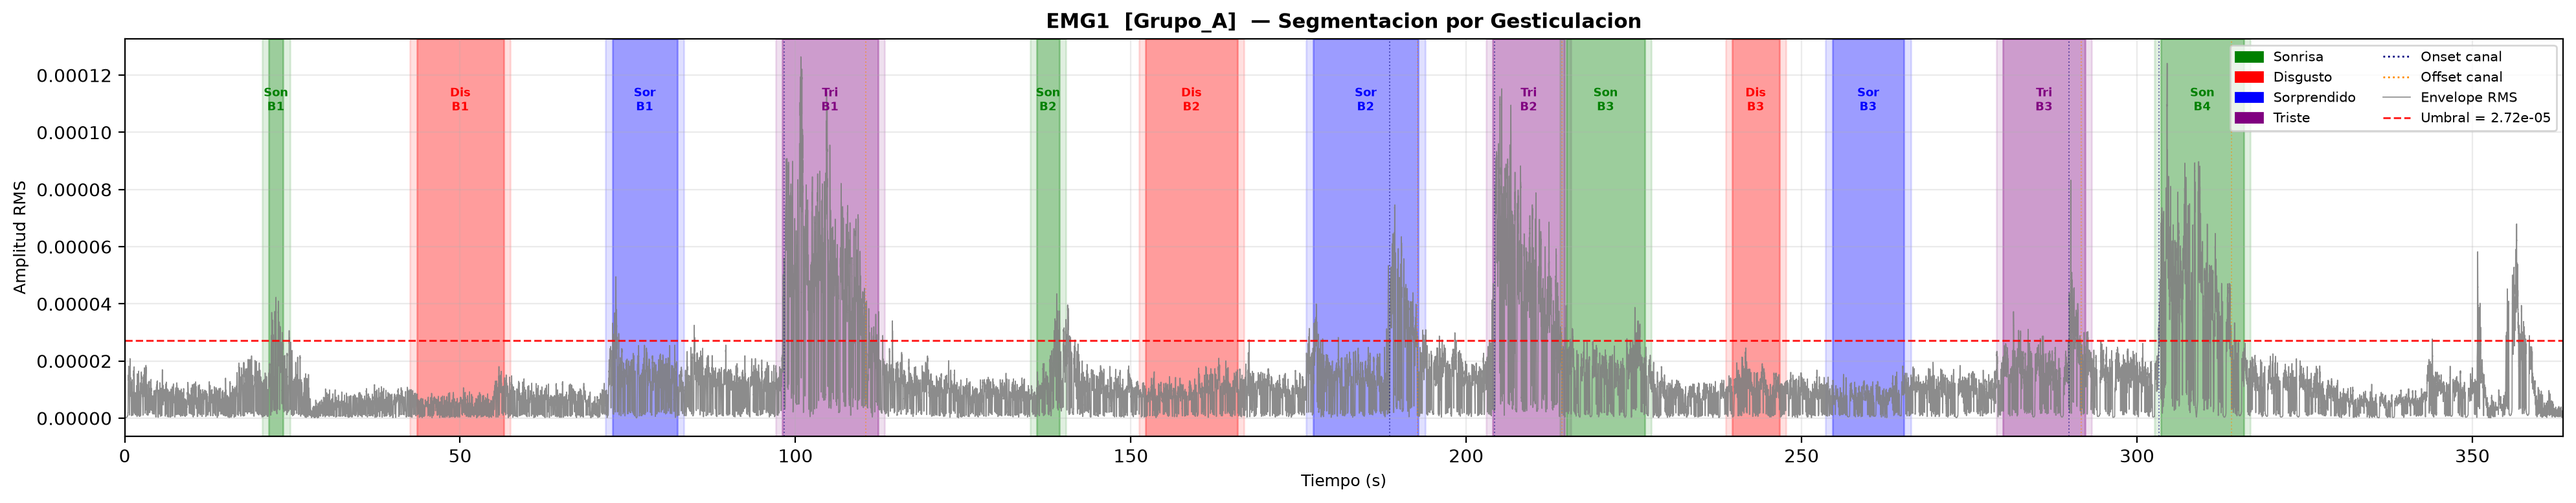
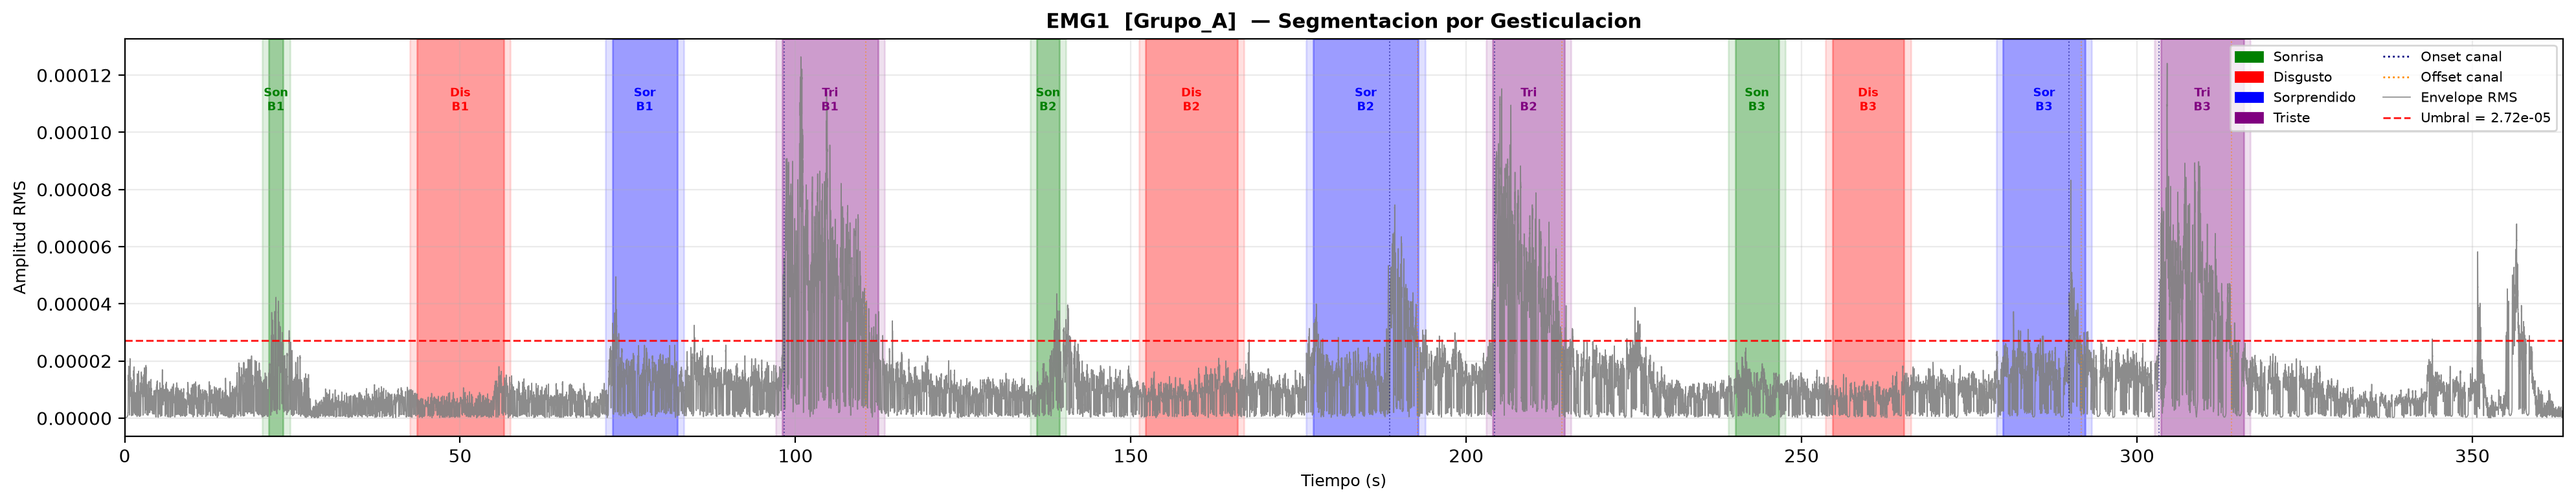
Deteccion correcta de todas las senales EMG

Changed region(s): [[0.5923, 0.0618, 0.7481, 0.8649], [0.7793, 0.0618, 0.8728, 0.8649]]

diff --git a/main/run_segmentation.py b/main/run_segmentation.py
@@ -93,7 +93,7 @@ if __name__ == "__main__":
 
         # Rescate automatico dentro de huecos anomalos
         gap_rescue_enabled=True,
-        gap_rescue_k_factor=0.5,
+        gap_rescue_k_factor=0.9,
 
         # CSV completo etiquetado (Reposo / Countdown_Emocion / <Emocion>)
         export_labeled_full_csv=True,
